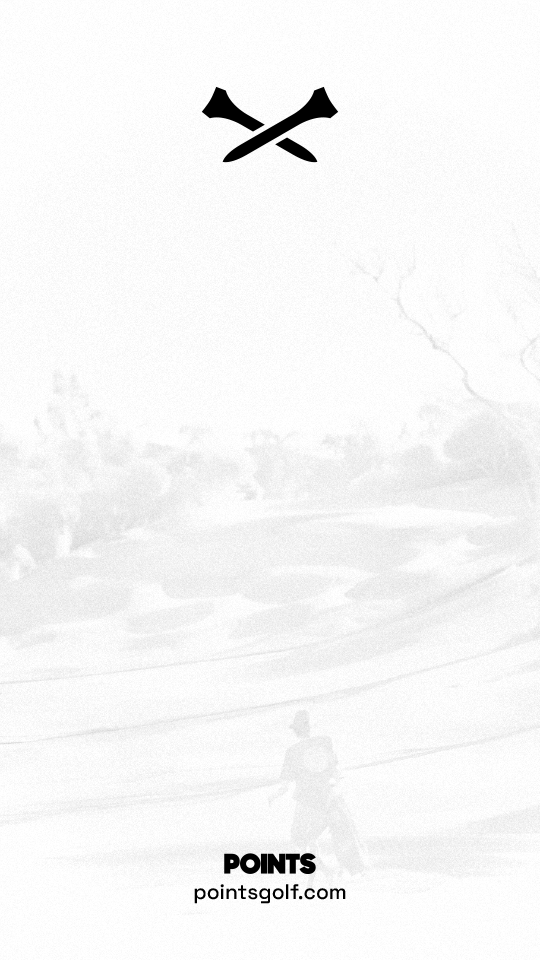
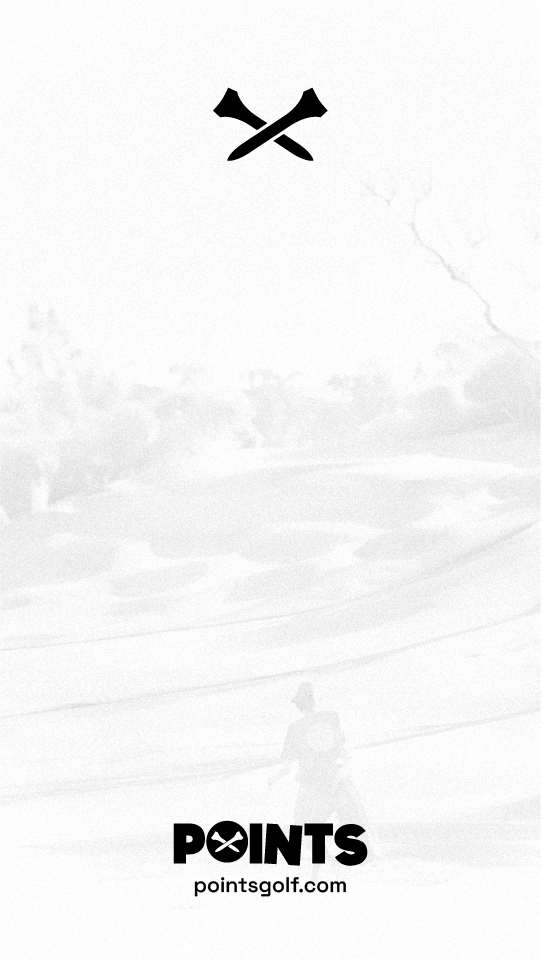
Describe changes

diff --git a/src/app/page.tsx b/src/app/page.tsx
@@ -163,12 +163,12 @@ export default function Home() {
         {/* ---------------- HOME ---------------- */}
         {mode === "home" && (
           <>
-          <img src="/points-home.svg" style={{ padding: "5px 0", width: "100%", display: "block", transform: "translateX(-3px)", height: "auto" }} />
+          <object data="/points-home.svg"></object>
             <button 
               onClick={() => setMode("create")}
               style={{
                 padding: 18,
-                background: "#C2DD00",
+                background: "#D7EE44",
                 border: "none",
                 borderRadius: 14,
                 fontWeight: 700,
@@ -279,7 +279,7 @@ export default function Home() {
               onClick={handleCreateGame}
               style={{
                 padding: 18,
-                background: "#C2DD00",
+                background: "#D7EE44",
                 border: "none",
                 borderRadius: 14,
                 fontWeight: 700,
@@ -335,7 +335,7 @@ export default function Home() {
               onClick={handleJoinGame}
               style={{
                 padding: 18,
-                background: "#C2DD00",
+                background: "#D7EE44",
                 border: "none",
                 borderRadius: 14,
                 fontWeight: 700,

diff --git a/src/app/globals.css b/src/app/globals.css
@@ -2,17 +2,17 @@
 
 :root {
   color-scheme: only light;
-  --background: #FBFBFB;
+  --background: #FFF;
   --foreground: #000000;
 }
 
 html {
   color-scheme: only light;
-  background: #FBFBFB;
+  background: #FFF;
 }
 
 body {
-  background: #FBFBFB !important;
+  background: #FFF !important;
   color: #000000 !important;
   font-family: var(--font-space-grotesk);
   -webkit-text-fill-color: #000000;

diff --git a/src/components/AppShell.tsx b/src/components/AppShell.tsx
@@ -158,7 +158,7 @@ export default function AppShell({
 
 const outer: React.CSSProperties = {
     minHeight: "100vh",
-    background: "#FBFBFB",
+    background: "#FFF",
     display: "flex",
     justifyContent: "center",
   };
@@ -166,7 +166,7 @@ const outer: React.CSSProperties = {
   const device: React.CSSProperties = {
     width: "100%",
     maxWidth: 440,
-    background: "#FBFBFB",
+    background: "#FFF",
     minHeight: "100vh",
     position: "relative",
   };
@@ -265,7 +265,7 @@ const sheet: React.CSSProperties = {
   width: "100%",
   maxWidth: 440,
   minHeight: "100dvh",
-  background: "#FBFBFB",
+  background: "#FFF",
   overflowY: "auto",
   WebkitOverflowScrolling: "touch",
   zIndex: 2100,

diff --git a/src/app/game/[code]/page.tsx b/src/app/game/[code]/page.tsx
@@ -604,7 +604,7 @@ const btn: React.CSSProperties = {
   padding: 18,
   borderRadius: 14,
   border: "none",
-  background: "#C2DD00",
+  background: "#D7EE44",
   color: "#000",
   fontWeight: 700,
   fontSize: 20,

diff --git a/src/app/layout.tsx b/src/app/layout.tsx
@@ -44,7 +44,7 @@ export default function RootLayout({
     fontFamily: "var(--font-space-grotesk)",
     letterSpacing: "-0.01em",
     color: "#000000",
-    background: "#FBFBFB",
+    background: "#FFF",
     colorScheme: "only light",
   }}
 >

diff --git a/src/components/ScoreStepper.tsx b/src/components/ScoreStepper.tsx
@@ -137,7 +137,7 @@ const submitBtn: React.CSSProperties = {
   width: "100%",
   padding: 18,
   borderRadius: 14,
-  background: "#C2DD00",
+  background: "#D7EE44",
   color: "#000",
   fontSize: 20,
   fontWeight: 700,

diff --git a/src/components/WinnerCinematic.tsx b/src/components/WinnerCinematic.tsx
@@ -223,7 +223,7 @@ const card: React.CSSProperties = {
 };
 
 const shareBtn = {
-  ...btn("#C2DD00"),
+  ...btn("#D7EE44"),
   border: "none",
 };
 